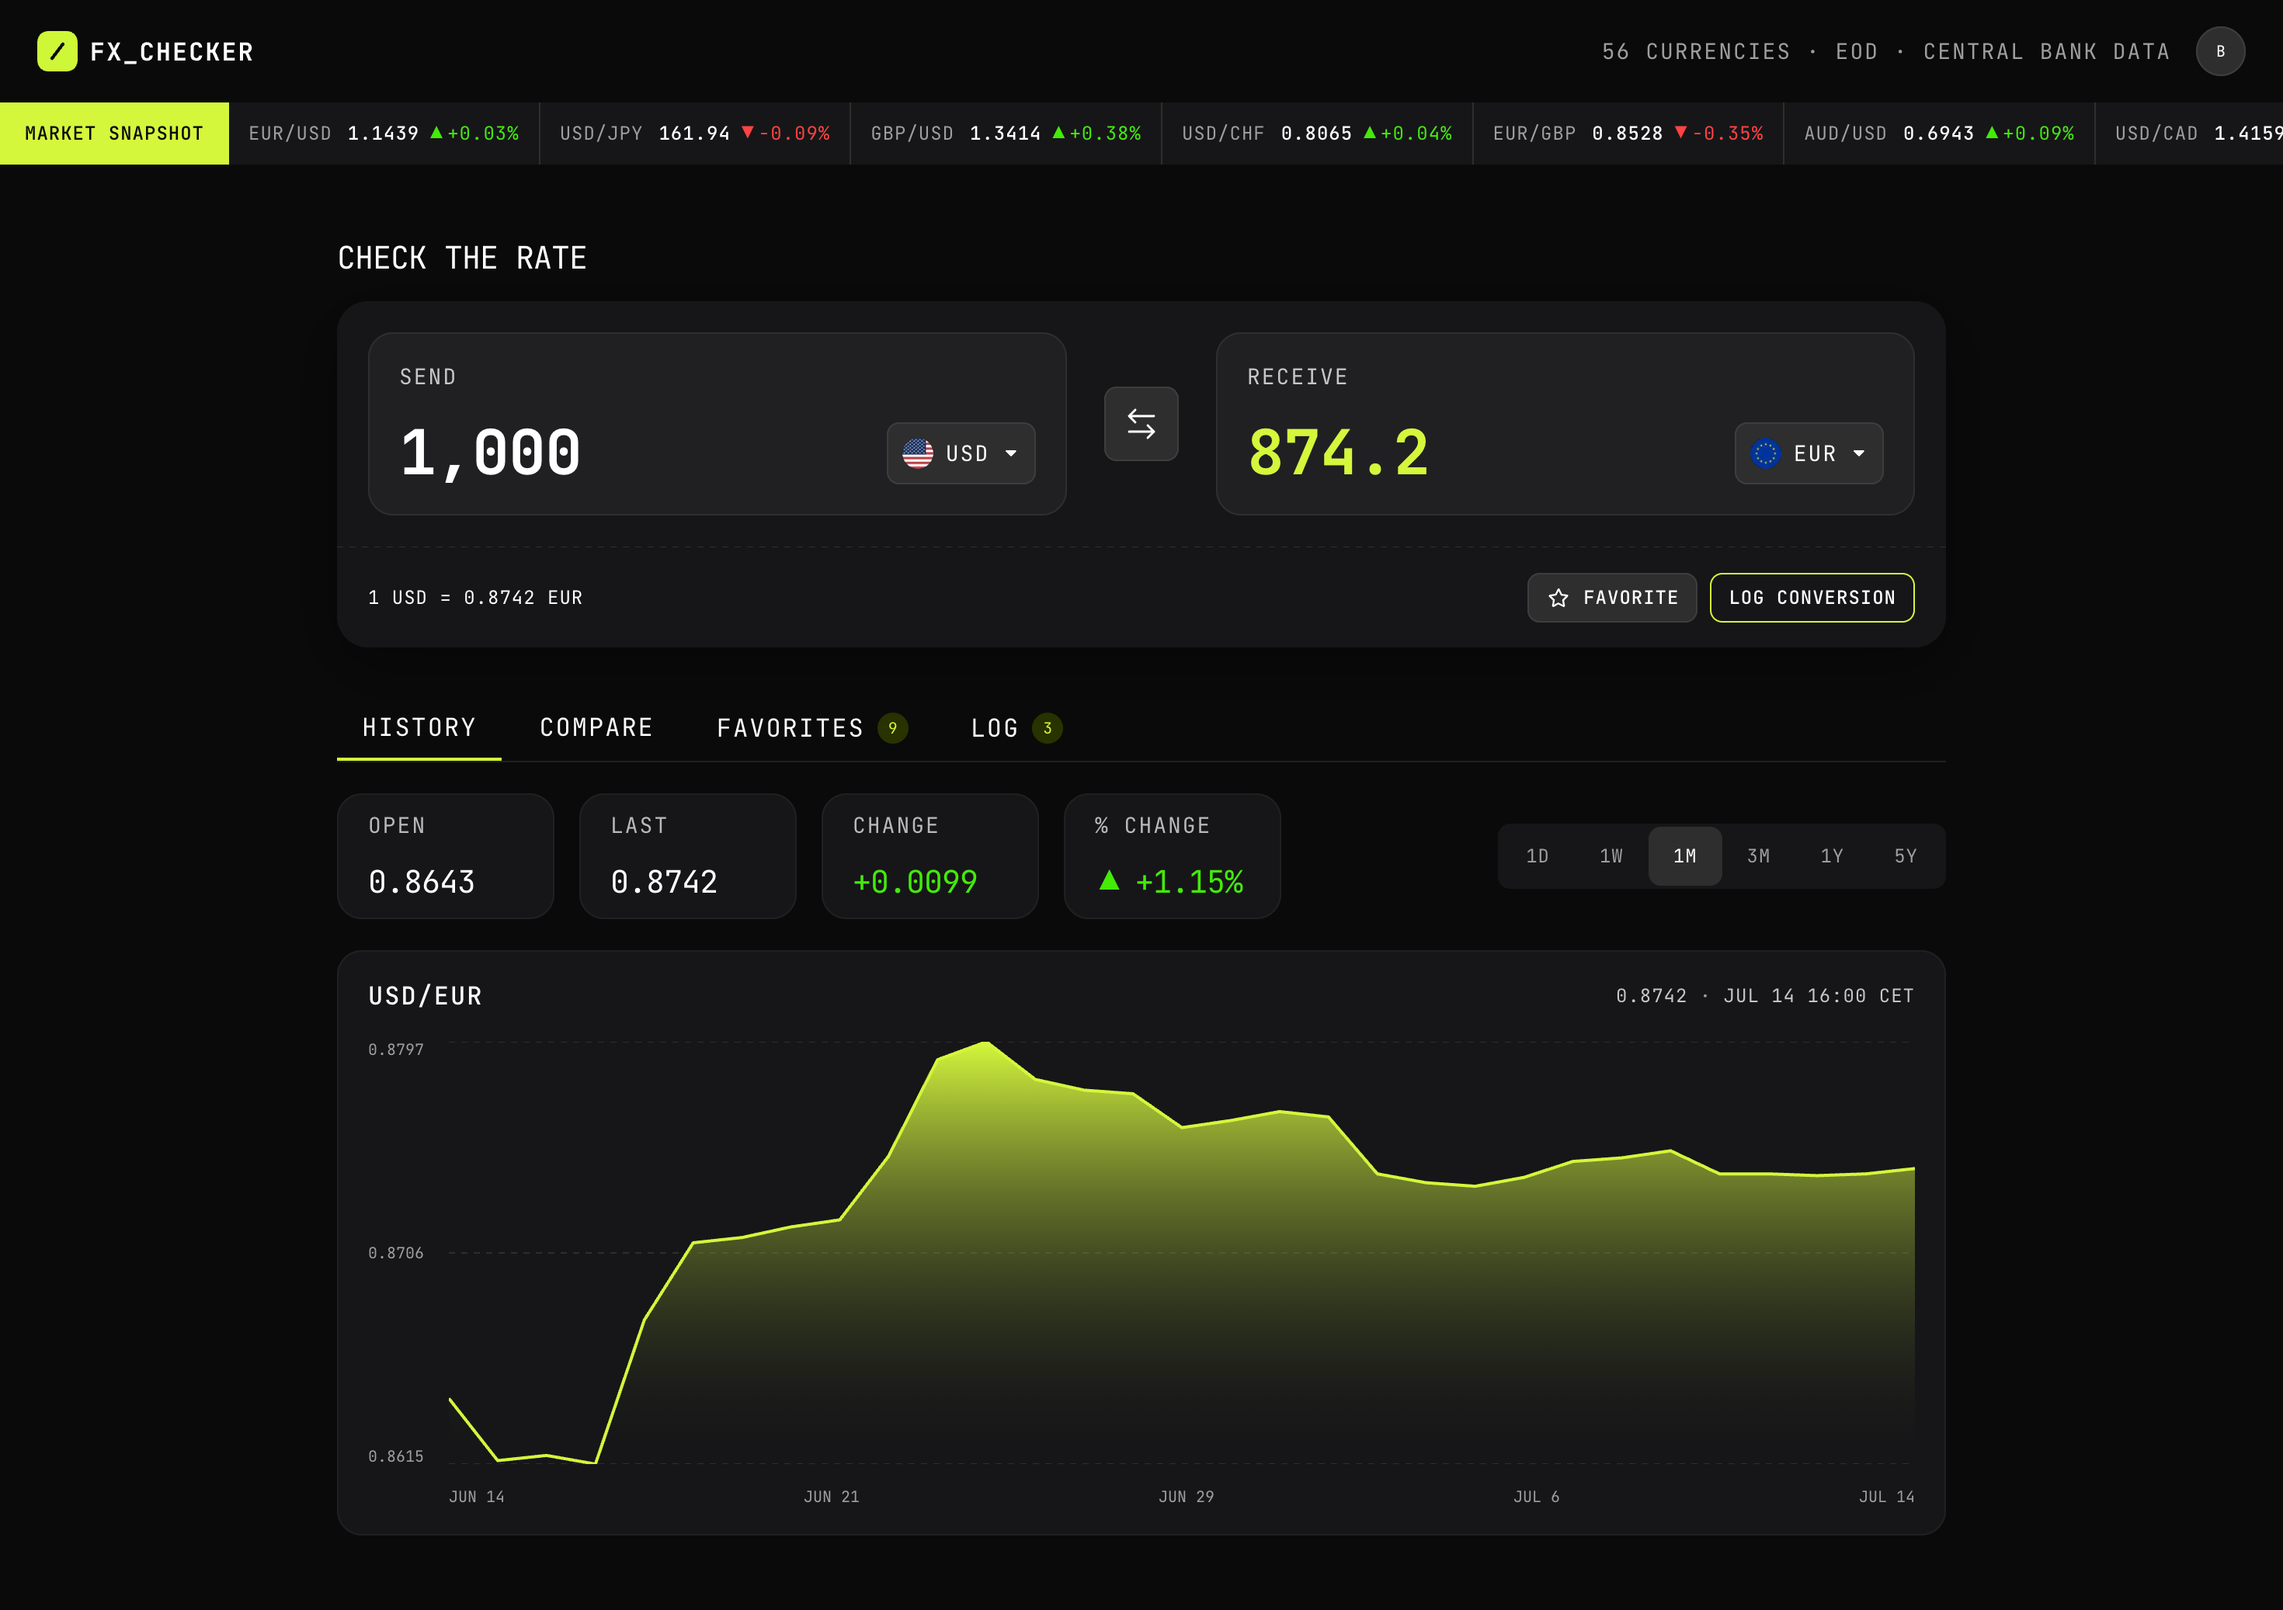
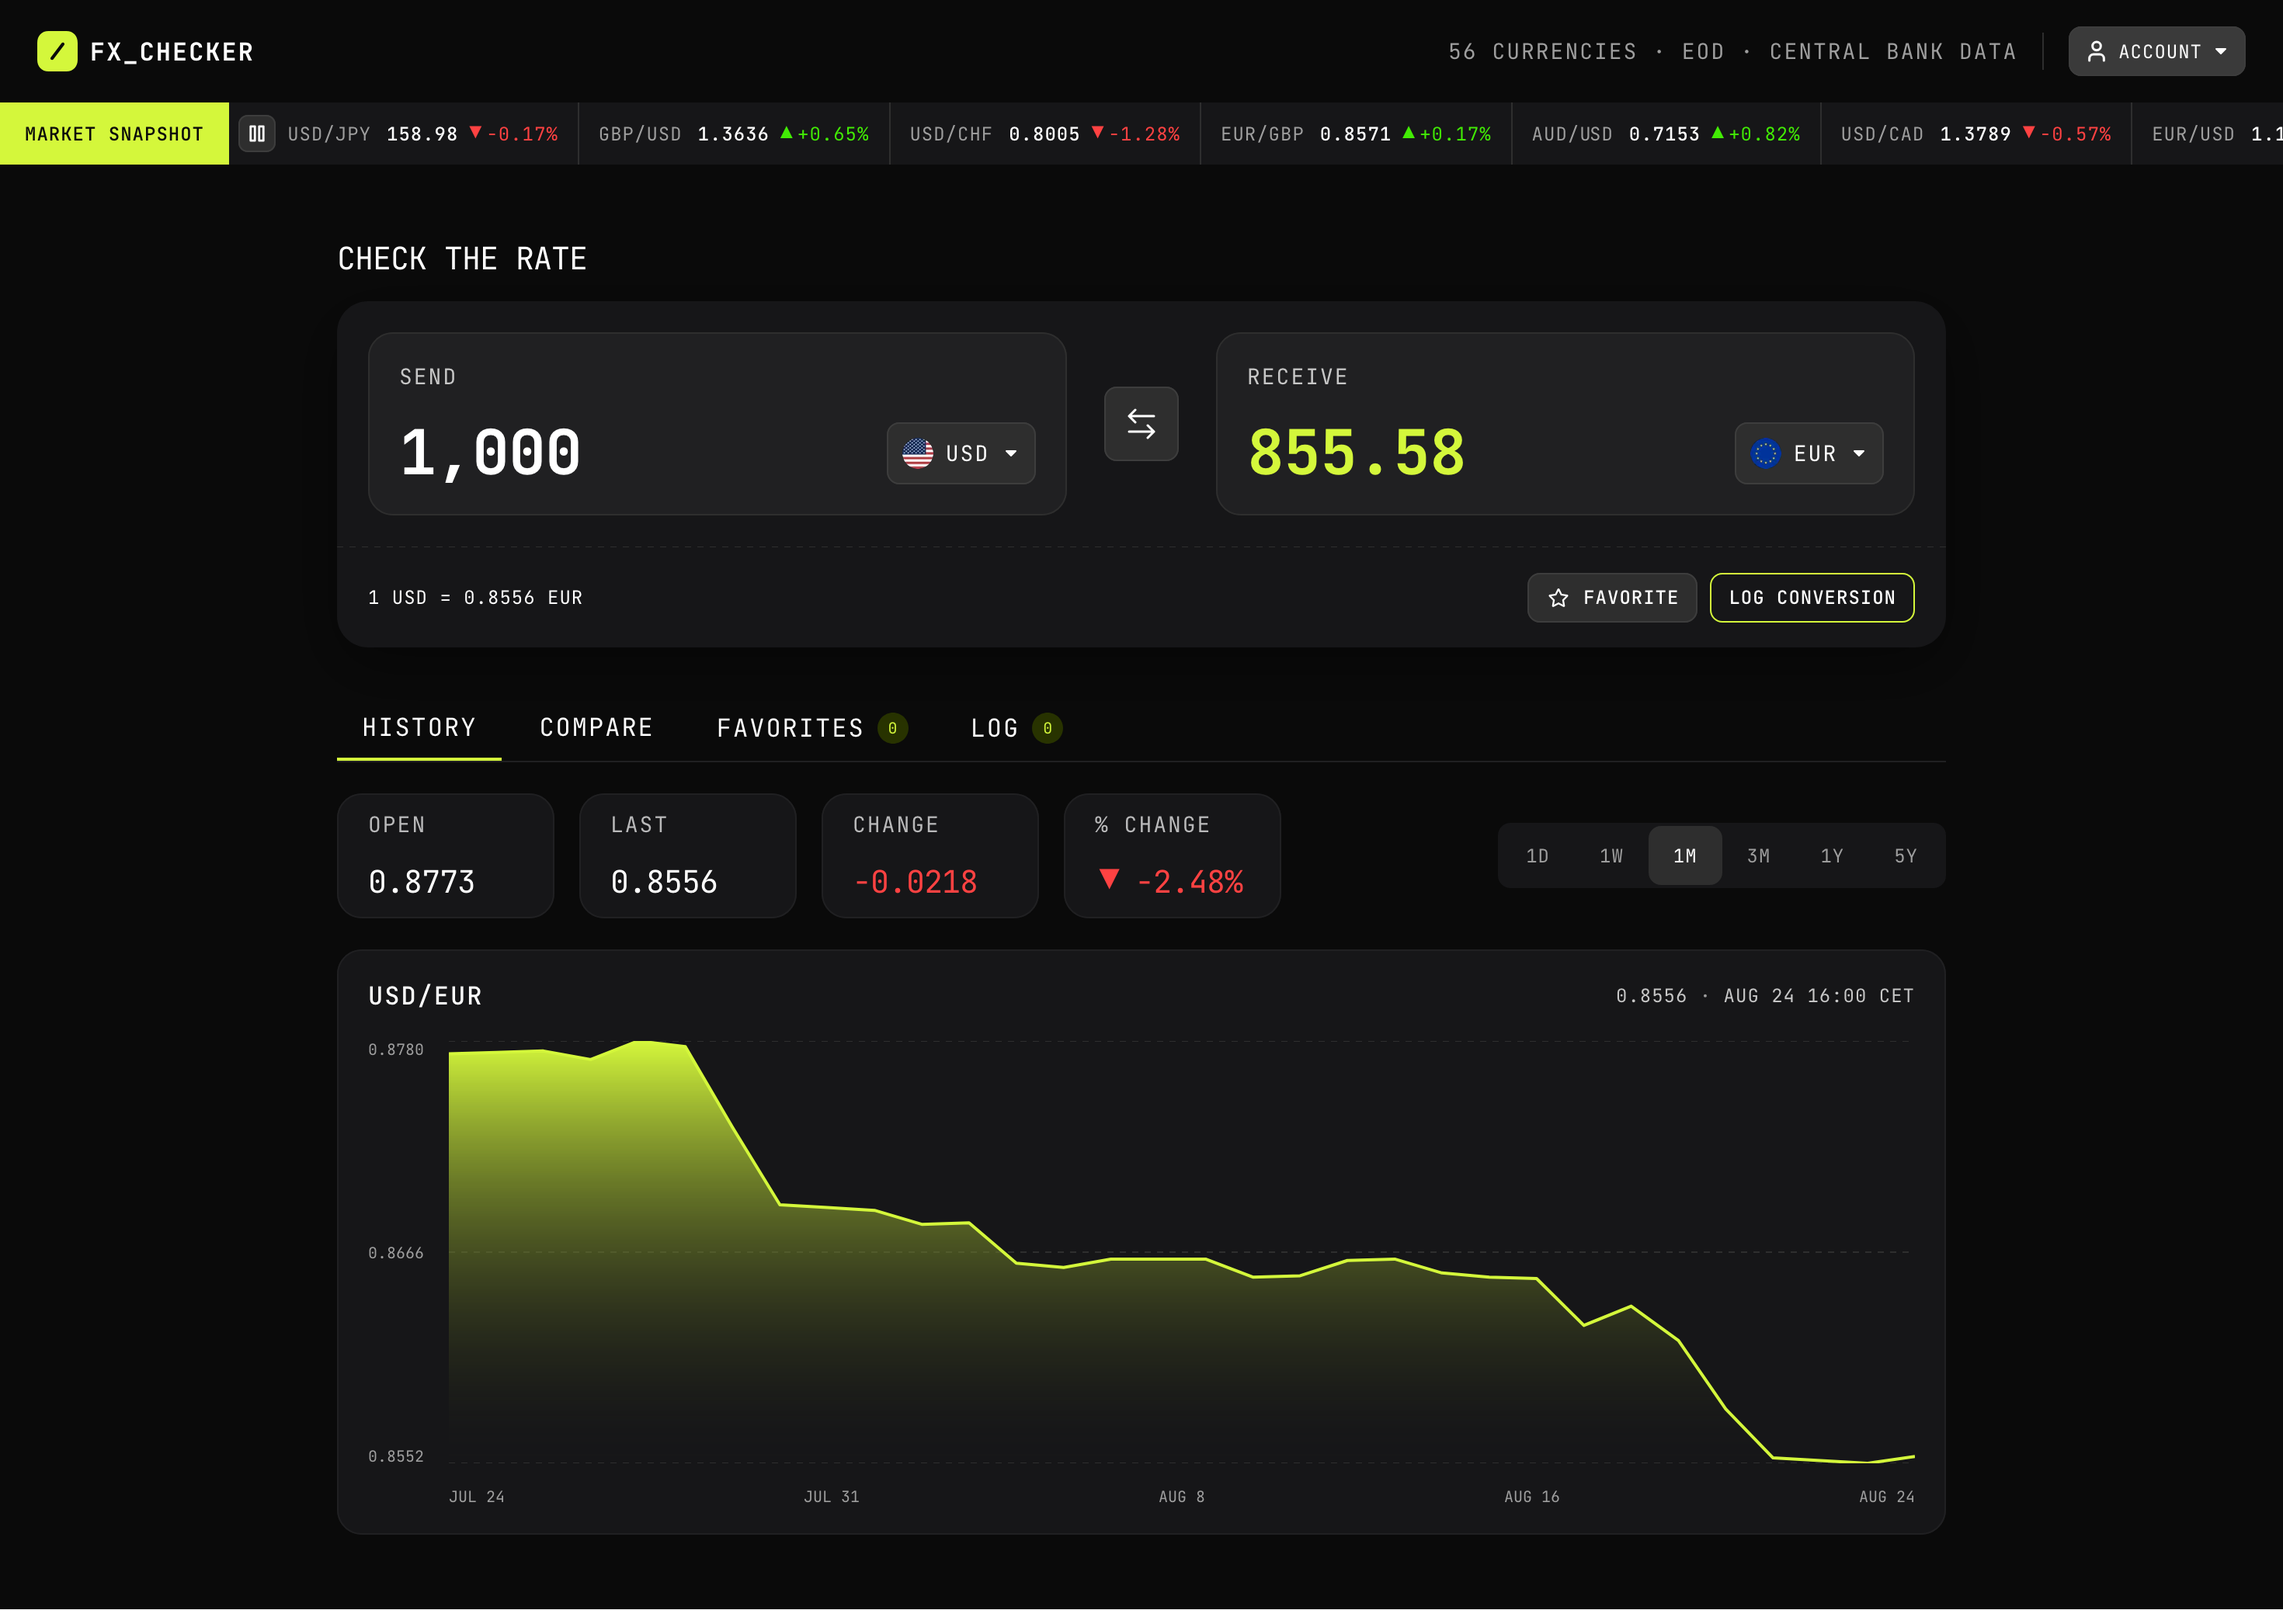
fix: update README for clarity and improve screenshot description

diff --git a/README.md b/README.md
@@ -1,6 +1,6 @@
 # Frontend Mentor - FX Checker Solution
 
-This is a solution to the [FX Checker challenge on Frontend Mentor](https://www.frontendmentor.io/challenges/foreign-exchange-currency-converter). FX Checker is a small Next.js application for exploring exchange-rate data. It started from the Supabase Next.js starter and is being refined into a focused product slice, beginning with a server-rendered home page that reads currency metadata from Frankfurter.
+This is a solution to the [FX Checker challenge on Frontend Mentor](https://www.frontendmentor.io/challenges/foreign-exchange-currency-converter). Frontend Mentor challenges help you improve your coding skills by building realistic projects. 
 
 ## Table of Contents
 
@@ -111,7 +111,7 @@ Your users should be able to:
 Next areas of focus:
 
 - Digging deeper into Next.js
-- Collaborating with AI to build richer marketing UX
+- Collaborating with AI to build richer UI at greater scale
 - Building and designing more complex custom features
 
 ### AI Collaboration
